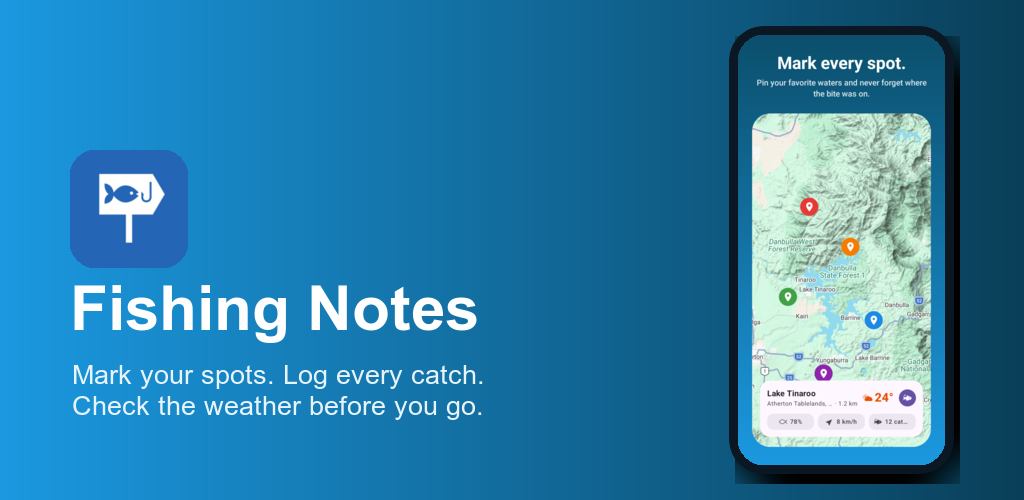
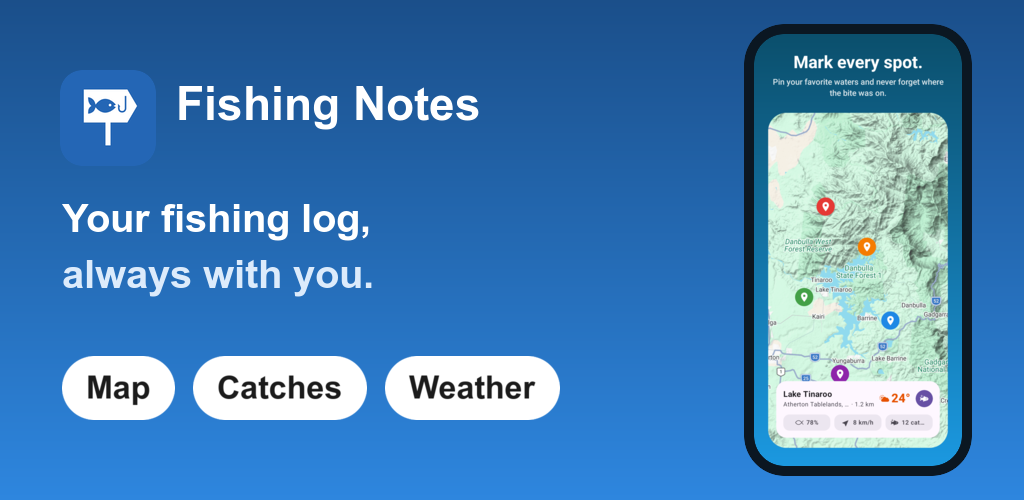
feat(release): branded hero screenshot + redesigned feature graphic (palette E)
- Add 01-hero.png: brand-blue title slide (logo lockup, "Every spot. Every
  catch. Every forecast." headline, phone mockup). Becomes screenshot #1.
- Renumber app screenshots: map→02, catch→03, notes→04, weather→05.
- Redesign feature-1024x500.png in the same palette: logo lockup + headline +
  crisp Map/Catches/Weather chips + phone mockup (no text/phone overlap).
- Update store-listing doc screenshot order (5 shots).

diff --git a/docs/play-store-release.md b/docs/play-store-release.md
@@ -93,8 +93,8 @@ First public release:
 | Slot | Dimensions | File in `docs/store-assets/` | Notes |
 |---|---|---|---|
 | **App icon** | 512 × 512 px | `icon-512.png` | Clean production icon (BETA banner removed). Also written back to `shared/src/main/ic_launcher-playstore.png` and the mipmap launcher set. |
-| **Feature graphic** | 1024 × 500 px | `feature-1024x500.png` | Device-frame hero: brand gradient + clean icon + map mockup. Built with ImageMagick from the map screenshot. |
-| **Phone screenshots (4)** | 1028 × 2138 px portrait | `01-map.png` … `04-weather.png` | Generated on-device by the `MarketingScreenshotExporter` instrumented test. |
+| **Feature graphic** | 1024 × 500 px | `feature-1024x500.png` | Brand-blue (palette E) banner: logo lockup + headline + Map/Catches/Weather chips + phone mockup. |
+| **Phone screenshots (5)** | 1028 × 2138 px portrait | `01-hero.png` … `05-weather.png` | `01-hero` is the branded title slide (palette E); `02`–`05` are app screens from the `MarketingScreenshotExporter` instrumented test. |
 | **Tablet screenshots (optional)** | 7" / 10" | — | optional |
 
 > **How screenshots are generated:** the `MarketingScreenshotExporter` instrumented test (`shared/src/androidInstrumentedTest/kotlin/.../marketing/`) renders each marketing composable at density 2.5 and writes a PNG to the device's external files dir. Regenerate with:
@@ -109,12 +109,11 @@ First public release:
 
 ### Screenshot order (first 2–3 are visible in the listing preview row)
 
-1. **`01-map.png`** — map with marker pins + live place card ("Mark every spot.")
-2. **`02-catch.png`** — catch detail page ("Log every catch.")
-3. **`03-notes.png`** — populated notes list ("Your log, always with you.")
-4. **`04-weather.png`** — weather screen ("Know the conditions.")
-
-> No separate brand "cover" slide — the listing leads with the map screenshot; branding lives in the feature graphic.
+1. **`01-hero.png`** — branded title slide (logo + "Every spot. Every catch. Every forecast." + phone)
+2. **`02-map.png`** — map with marker pins + live place card ("Mark every spot.")
+3. **`03-catch.png`** — catch detail page ("Log every catch.")
+4. **`04-notes.png`** — populated notes list ("Your log, always with you.")
+5. **`05-weather.png`** — weather screen ("Know the conditions.")
 
 ---
 